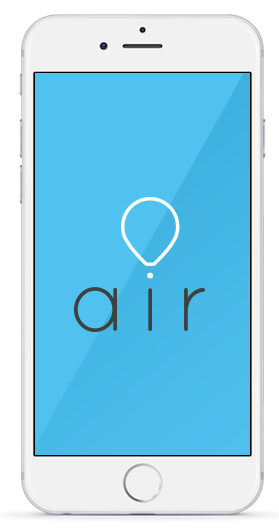
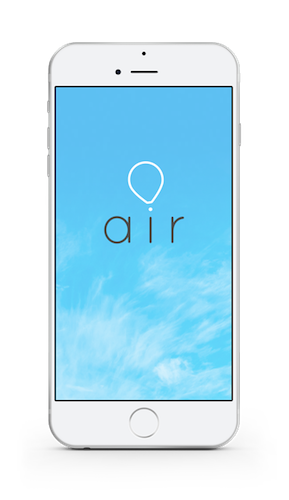
added images

diff --git a/index.html b/index.html
@@ -27,10 +27,10 @@
 		<div id="main-nav" class="navbar navbar-inverse mymenu" role="navigation">
 			<div class="container">
 				<div class="navbar-header hidden-xs">
-					<div class="navbarlogo"><img src="img/airlogo.svg" width="100px"></div>
+					<div class="navbarlogo"><img src="img/logoword.svg" width="75px"></div>
 				</div>
 				<div class="navbar-header visible-xs">
-					<div class="navbarlogo-small"><img src="img/airlogo.png" width="100px"></div>
+					<div class="navbarlogo-small"><img src="img/logoword.svg" width="75px"></div>
 				</div>
 			</div>
 		</div> 
@@ -40,48 +40,46 @@
 				<div class="row hidden-xs">
 					<div class="col-sm-6 text-col">
 						<!-- <img src="img/airlogo.svg" width="120px"> -->
-						<h1 class="sliderhead">Give your money wings. </h1>
-						<!-- <p">Backed by airtime. No bank transfers. No bank fees.<br>Global. Instant. Secure.<br>Ecommerce. Retail. Peer-to-peer.</p> -->
+					<h1 class="sliderhead">Give your money wings</h1>
 
-						<div id="carousel-example-generic" class="carousel slide bs-docs-carousel-example">
-					<!-- <ol class="carousel-indicators">
-						<li data-target="#carousel-example-generic" data-slide-to="0" class="active"></li>
-						<li data-target="#carousel-example-generic" data-slide-to="1" class=""></li>
-						<li data-target="#carousel-example-generic" data-slide-to="2" class=""></li>
-					</ol> -->
-							<div class="carousel-inner">
-								<div class="item active">
-									<p class="featuresection">Backed by airtime. <br>No bank transfers. <br>No bank fees.</p>
-								</div>
-								<div class="item">
-									<p class="featuresection">Global. <br>Instant. <br>Secure.</p>
-								</div>
-								<div class="item">
-									<p class="featuresection">Ecommerce. <br>Retail. <br>Peer-to-peer.</p>
-								</div>
-							</div>
-						</div>
+<!-- 						<div id="carousel-example-generic" class="carousel slide bs-docs-carousel-example">
+								<div class="carousel-inner">
+									<div class="item active">
+										<p class="featuresection">Backed by airtime. <br>No bank transfers. <br>No bank fees.</p>
+									</div>
+									<div class="item">
+										<p class="featuresection">Global. <br>Instant. <br>Secure.</p>
+									</div>
+									<div class="item">
+										<p class="featuresection">Ecommerce. <br>Retail. <br>Peer-to-peer.</p>
+									</div>
+								</div> 
+							</div> -->
+
+							<h3>Backed by airtime in 170 countries.</h3>
+							<div class="padding-top-bottom"
 							<a href="www.apple.com"><img src="img/appstore_btn.png"></a> 
 							<a href="www.apple.com"><img src="img/googleplaybtn.png"></a>
+						</div>
 					</div>
 
 						<div class="col-sm-6 col-md-6">
 							<div class="text-center">
-								<img class="img-responsive img-center phonemargin" src="img/cellphone.gif" alt="">
+								<img class="img-responsive img-center phonemargin" src="img/iphone.png" alt="air">
 							</div>
 						</div>
 					</div>
 					<div class="row visible-xs">
 						<div class="col-sm-6 text-col">
 							<h3 class="sliderhead">Give your money wings.</h3>
-							<p class="featuresectionmob">Backed by airtime. No bank <br>transfers. No bank fees.<br><strong>Global. Instant. Secure.</strong><br>Ecommerce. Retail. Peer-to-peer.</p>
+							<p class="featuresectionmob">Backed by airtime in 170 countries.</p>
 
 							<a href="www.apple.com"><img src="img/appstore_btn.png"</a> 
 							<a href="www.apple.com"><img src="img/googleplaybtn.png"></a>
 						</div>
 					<div class="col-sm-6 col-md-6">
 						<div class="text-center">
-							<img class="img-responsive img-center padding-top" src="img/iphone.png" alt="">
+							<img class="img-responsive img-center padding-top" src="img/iphone.png" alt="air">
 						</div>
 					</div>
 				</div>
@@ -109,17 +107,17 @@
 				</header>
 				<div class="row hidden-xs">
 					<div class="text-center pull-left col-sm-6 col-md-4 scrollimation fade-up in">
-						<img src="img/icon1.png" height="150" alt="">
+						<img src="img/img1.png" height="150" alt="">
 						<h2>Load</h2>
 						<p>Find a local agent to load your account with cash - or deposit bitcoins.</p>
 					</div>
 					<div class="text-center col-sm-6 col-md-4">
-						<img src="img/icon2.png" height="150" alt="">
+						<img src="img/img2.png" height="150" alt="">
 						<h2>Send or spend</h2>
 						<p>Now you can send money to anyone, anywhere - or shop online where bitcoin or Air is accepted.</p>
 					</div>
 					<div class="text-center pull-left col-sm-6 col-md-4">
-						<img src="img/icon3.png" height="150" alt="">
+						<img src="img/img3.png" height="150" alt="">
 						<h2>Cashout</h2>
 						<p>Find an agent to cash out, or buy airtime or other digital goods.</p>
 					</div>
@@ -163,17 +161,17 @@
 				</header>
 				<div class="row hidden-xs">
 					<div class="text-center pull-left col-sm-6 col-md-4 scrollimation fade-up in">
-						<img src="img/icon1.png" height="150" alt="">
+						<!-- <img src="img/icon1.png" height="150" alt=""> -->
 						<h2>Sell</h2>
 						<p>Sell Air, bitcoin or airtime for cash to Air customers.</p>
 					</div>
 					<div class="text-center col-sm-6 col-md-4">
-						<img src="img/icon2.png" height="150" alt="">
+						<!-- <img src="img/icon2.png" height="150" alt=""> -->
 						<h2>Buy</h2>
 						<p>Buy Air or bitcoin with cash from Air customers.</p>
 					</div>
 					<div class="text-center pull-left col-sm-6 col-md-4">
-						<img src="img/icon3.png" height="150" alt="">
+						<!-- <img src="img/icon3.png" height="150" alt=""> -->
 						<h2>Earn</h2>
 						<p>You earn a profit on every purchase or sale.</p>
 					</div>
@@ -181,21 +179,21 @@
 				<div class="row visible-xs">
 					<div class="col-sm-12">
 						<div class="media">
-							<img class="pull-left" src="img/icon1.png" height="100" alt="">
+							<!-- <img class="pull-left" src="img/icon1.png" height="100" alt=""> -->
 							<div class="media-body">	
 								<h3>Sell</h3>
 								<p>Sell Air, bitcoin or airtime for cash to Air customers.</p>
 							</div>
 						</div>
 						<div class="media">
-							<a class="pull-left" href="#"><img class="media-object" src="img/icon2.png" width="100" alt=""></a>
+							<!-- <a class="pull-left" href="#"><img class="media-object" src="img/icon2.png" width="100" alt=""></a> -->
 							<div class="media-body">
 								<h3>Buy</h3>
 								<p>Buy Air or bitcoin with cash from Air customers.</p>
 							</div>
 						</div>
 						<div class="media">
-							<a class="pull-left" href="#"><img class="media-object" src="img/icon3.png" width="100" alt=""></a>
+							<!-- <a class="pull-left" href="#"><img class="media-object" src="img/icon3.png" width="100" alt=""></a> -->
 							<div class="media-body">
 								<h3>Earn</h3>
 								<p>You earn a profit on every purchase or sale.</p>
@@ -216,7 +214,7 @@
 				<div class="row">
 					<div class="col-sm-4 col-md-3 col-md-offset-1">
 						<div class="text-center">
-							<img class="bordered img-responsive img-center img-circle" src="img/team1.jpg" height="250" width="250" alt="">
+							<img class="img-responsive img-center img-circle" src="img/faq.png" height="250" width="250" alt="">
 						</div>
 					</div>
 					<div class="col-sm-7 col-sm-offset-1 col-md-7 text-col2">

diff --git a/css/overrideflatking.blue.css b/css/overrideflatking.blue.css
@@ -1,13 +1,24 @@
 @import url(http://fonts.googleapis.com/css?family=Lato:300,400,700);
 
-h1,h2,h3,h4,h5,h6 {
+h1,h3,h4,h5,h6 {
 	font-family: 'Lato', sans-serif;
 	font-weight: 300; 
 }
+
+h2 {
+	font-family: 'Lato', sans-serif;
+	font-weight: 600;
+	text-transform: uppercase;
+	font-size: 20px;
+	letter-spacing: 3px;
+	color: #51575b;
+
+}
+
 p{
 	font-family: 'Lato', sans-serif;
-	font-weight: 300; 
-	font-size: 18px;
+	font-weight: 400; 
+	font-size: 16px;
 	line-height: 24px;
 	margin-bottom: 20px;
 }
@@ -71,5 +82,5 @@ p.featuresectionmob {
     padding: 136px 0 0 0;
 }
 .phonemargin {
-	margin-top: -50px;
+	margin-top: -70px;
 }

diff --git a/css/flatking.blue.css b/css/flatking.blue.css
@@ -200,7 +200,7 @@ h4.media-heading {
 #myheader {
 	overflow: hidden;
 	padding: 136px 0 0 0;
-	background-color:#55c0ee;
+	background-color:#55c1ee;
 }
 
 
